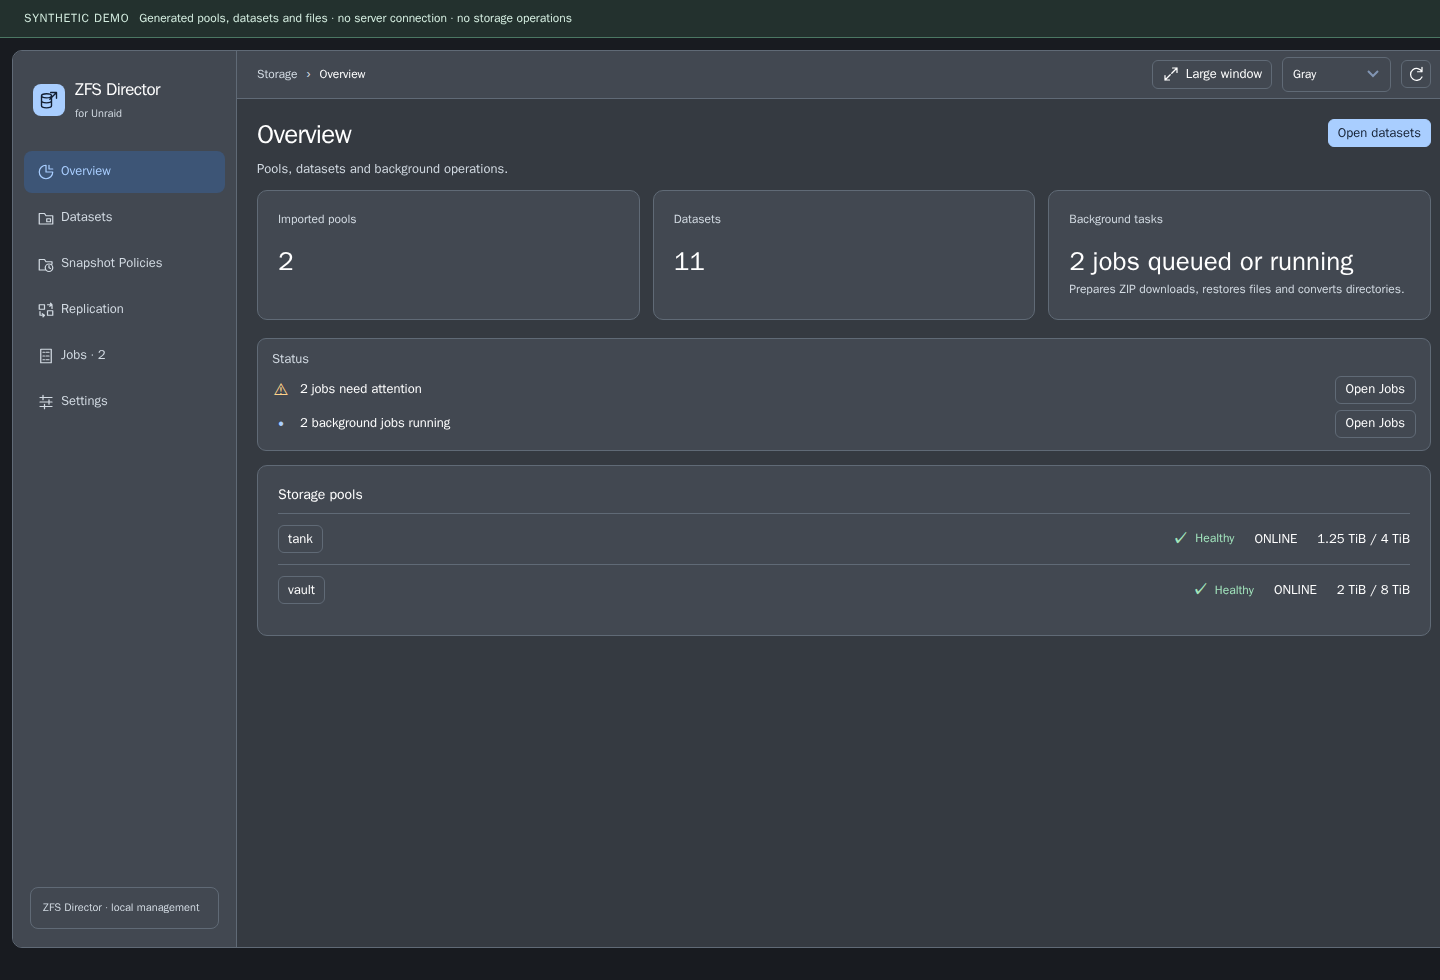
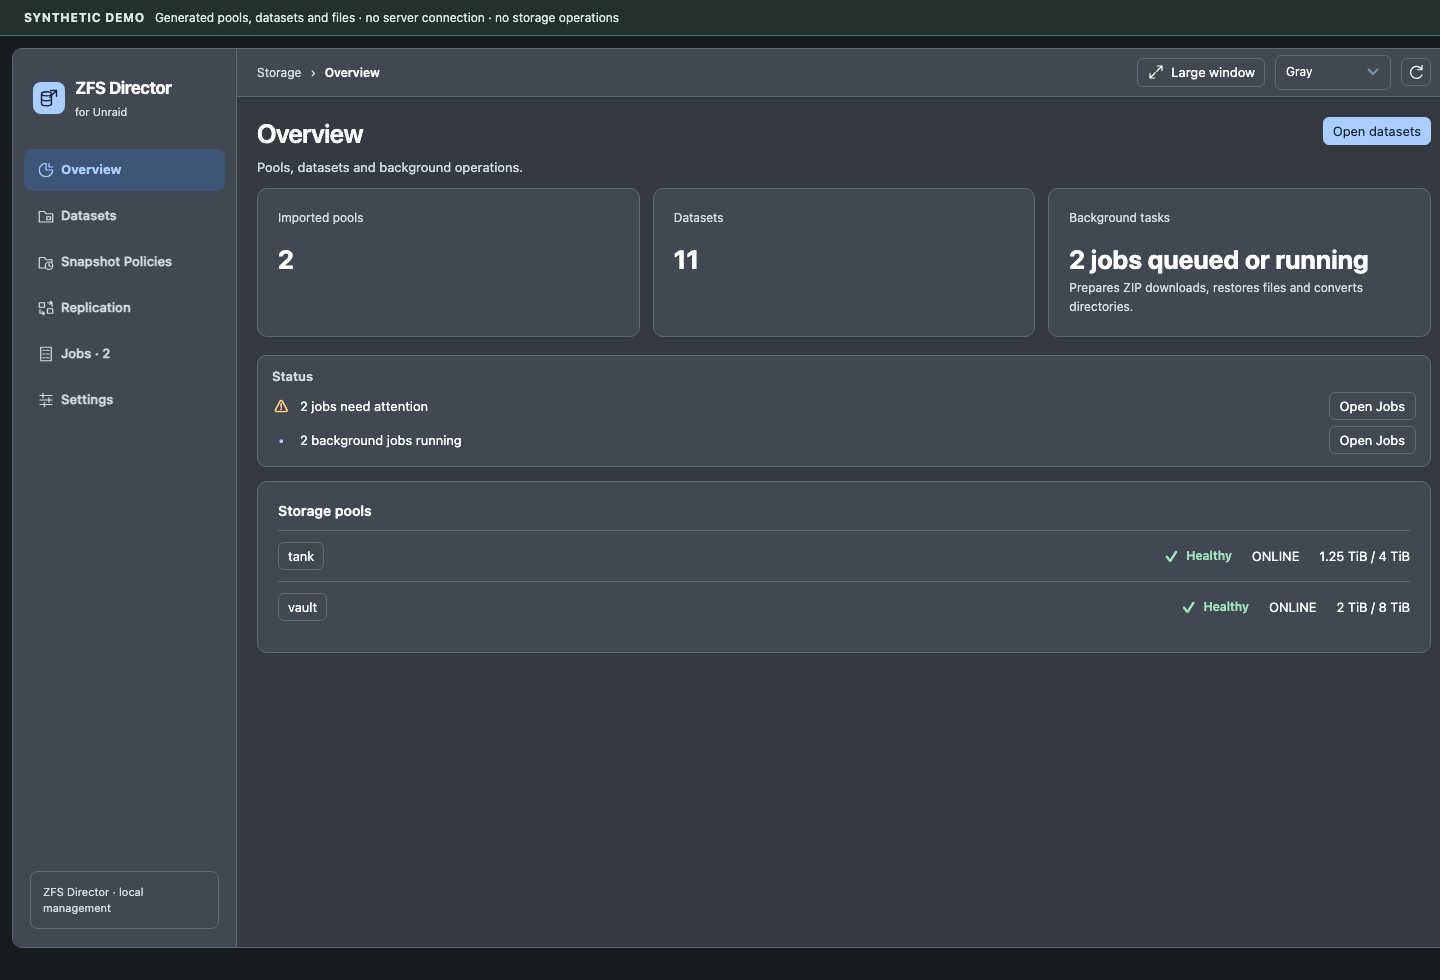
docs: capture screenshots with local headless Chromium, no container image

diff --git a/tools/release.py b/tools/release.py
@@ -26,8 +26,9 @@ VERSION_PATTERN = re.compile(r'^[0-9]{4}\.[0-9]{2}\.[0-9]{2}\.[0-9]+$')
 # Files where the published version appears for users (download links, CA template).
 VERSIONED_FILES = ['README.md', 'README.ru.md', 'ca_profile.xml', 'zfs-director.xml', 'docs/INSTALLATION.md', 'src/README.md']
 PLUGIN_FILES = ['zfs-director.plg', 'zfs.master.ui.plg', 'zfs.master.ui.local.plg']
-SCREENSHOTS = ("docker run --rm -v \"$PWD\":/work -w /work mcr.microsoft.com/playwright:v1.62.1-noble "
-               "bash -c 'node docs/preview/server.mjs > /tmp/preview.log 2>&1 & sleep 3; node docs/preview/capture.mjs'")
+# Local headless Chromium from the installed Playwright package; no container image is needed.
+SCREENSHOTS = ("bash -c 'node docs/preview/server.mjs > /tmp/zfsm-preview.log 2>&1 & server=$!; sleep 3; "
+               "node docs/preview/capture.mjs; code=$?; kill $server; exit $code'")
 
 
 def current_version():

diff --git a/tools/check-release.py b/tools/check-release.py
@@ -60,7 +60,7 @@ def run(deny,history):
  manifest=ROOT/'docs/images/manifest.json'
  if manifest.is_file():
   m=json.loads(manifest.read_text())
-  if not m.get('synthetic')or not m.get('capture',{}).get('inside_vm'):violations.append({'file':'docs/images/manifest.json','reason':'missing_synthetic_vm_provenance'})
+  if not m.get('synthetic'):violations.append({'file':'docs/images/manifest.json','reason':'missing_synthetic_provenance'})
   for shot in m.get('screenshots',[]):
    path=manifest.parent/shot['file']
    if not path.is_file()or hashlib.sha256(path.read_bytes()).hexdigest()!=shot['sha256']:violations.append({'file':str(path.relative_to(ROOT)),'reason':'screenshot_hash'})
